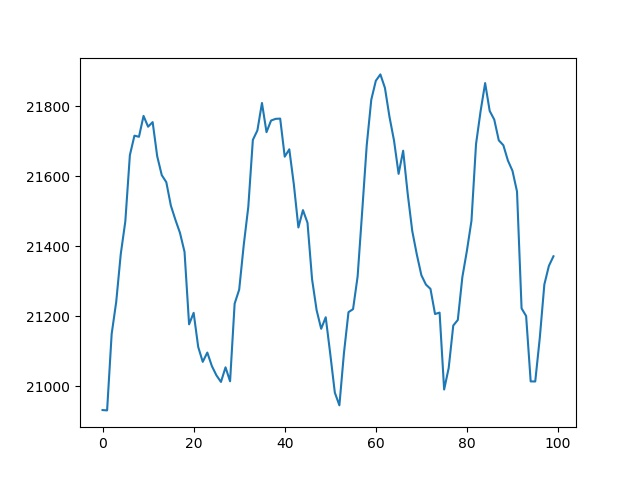
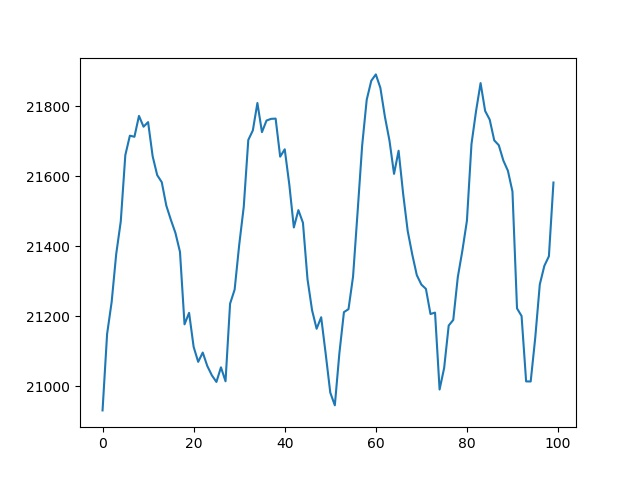
'auto'

Changed region(s): [[0.1562, 0.1562, 0.875, 0.875]]

diff --git a/README.md b/README.md
@@ -1,6 +1,6 @@
 Frizider live: 8
-21371.449999999997 
-1
+21581.933333333334 
+0
 Temperatura:
 
 ![alt text](https://raw.githubusercontent.com/matej14086/frizider/master/images/temp.jpg?)
